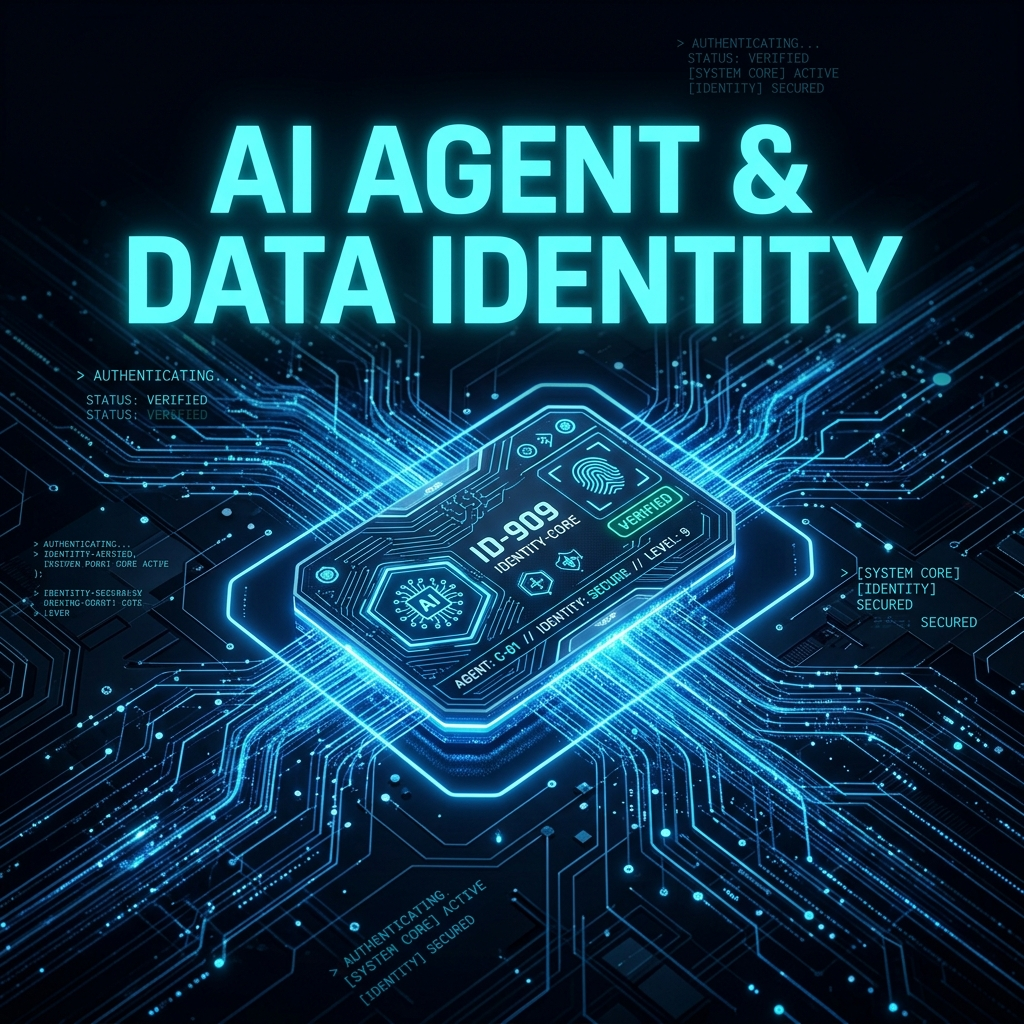
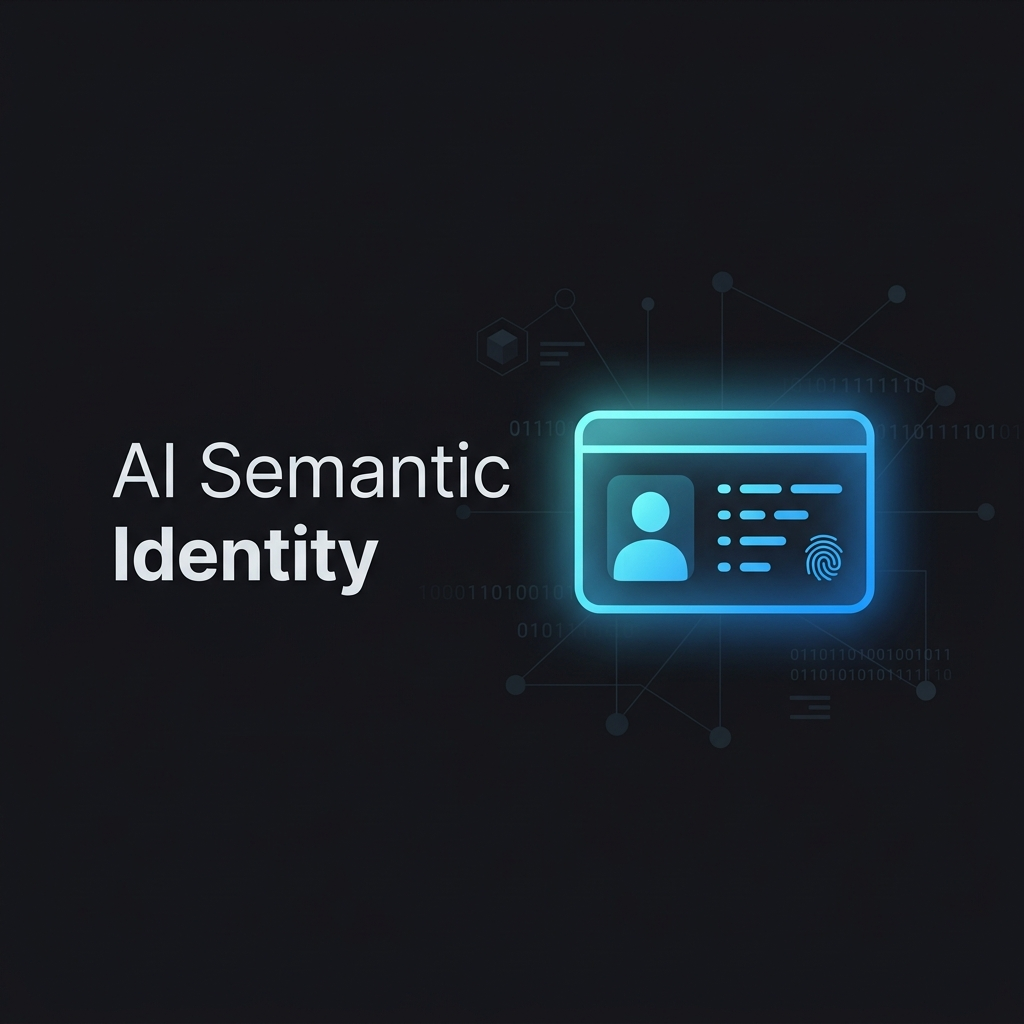
docs(site): update journal cover images to balanced design and resize layout

diff --git a/docs/journal/performance-matrix.md b/docs/journal/performance-matrix.md
@@ -6,7 +6,7 @@ hide:
 
 # Cross-Language Benchmark Matrix: DeukPack vs Commercial Protocols
 
-![Performance Matrix Cover](/assets/performance-matrix-cover.png)
+![Performance Matrix Cover](/assets/performance-matrix-cover.png){: width="700" style="margin-bottom: 1.5rem;"}
 
 This report provides a comprehensive evaluation of performance and memory characteristics across various platforms and languages (C#, C++, Java, Node.js, Elixir), comparing DeukPack against industry-standard structures (Tag-based & RPC-based formats). It demonstrates how the new **Static Inline Compiler (JIT Codegen)** and **Zero-Allocation Philosophy** introduced in **DeukPack 1.6.0** distinguish themselves from legacy formats.
 

diff --git a/docs/journal/performance-matrix.ko.md b/docs/journal/performance-matrix.ko.md
@@ -6,7 +6,7 @@ hide:
 
 # DeukPack vs 타사 상용 포맷 전 언어 통합 벤치마크
 
-![Performance Matrix Cover](/assets/performance-matrix-cover.png)
+![Performance Matrix Cover](/assets/performance-matrix-cover.png){: width="700" style="margin-bottom: 1.5rem;"}
 
 이 리포트는 각 플랫폼 및 언어(C#, C++, Java, Node.js, Elixir)별로 업계 표준 구조(Tag-based & RPC-based)와의 성능 및 메모리 특성 차이를 비교한 종합 평가 매트릭스입니다. **DeukPack 1.6.0**에서 새롭게 선보인 정적 인라인 컴파일러(JIT Codegen)와 Zero-Allocation 철학이 기존 포맷 대비 어떠한 차이를 가져오는지 증명합니다.
 

diff --git a/docs/journal/ai-control-plane-design.ko.md b/docs/journal/ai-control-plane-design.ko.md
@@ -1,6 +1,6 @@
 # AI 에이전트와 MCP: 당신의 데이터에는 '신분증'이 있습니까?
 
-![AI MCP and Semantic Data](/assets/ai-control-plane-cover.png)
+![AI Semantic Identity Cover](/assets/ai-control-plane-cover.png){: width="700" style="margin-bottom: 2rem;"}
 
 "MCP(Model Context Protocol)가 나오면 모든 데이터 문제가 해결될까요?"
 

diff --git a/docs/journal/ai-control-plane-design.md b/docs/journal/ai-control-plane-design.md
@@ -1,6 +1,6 @@
 # AI Agents and MCP: Does Your Data Have an 'Identity Card'?
 
-![AI MCP and Semantic Data](/assets/ai-control-plane-cover.png)
+![AI Semantic Identity Cover](/assets/ai-control-plane-cover.png){: width="700" style="margin-bottom: 2rem;"}
 
 "Will all our data problems be solved once MCP (Model Context Protocol) is here?"
 
